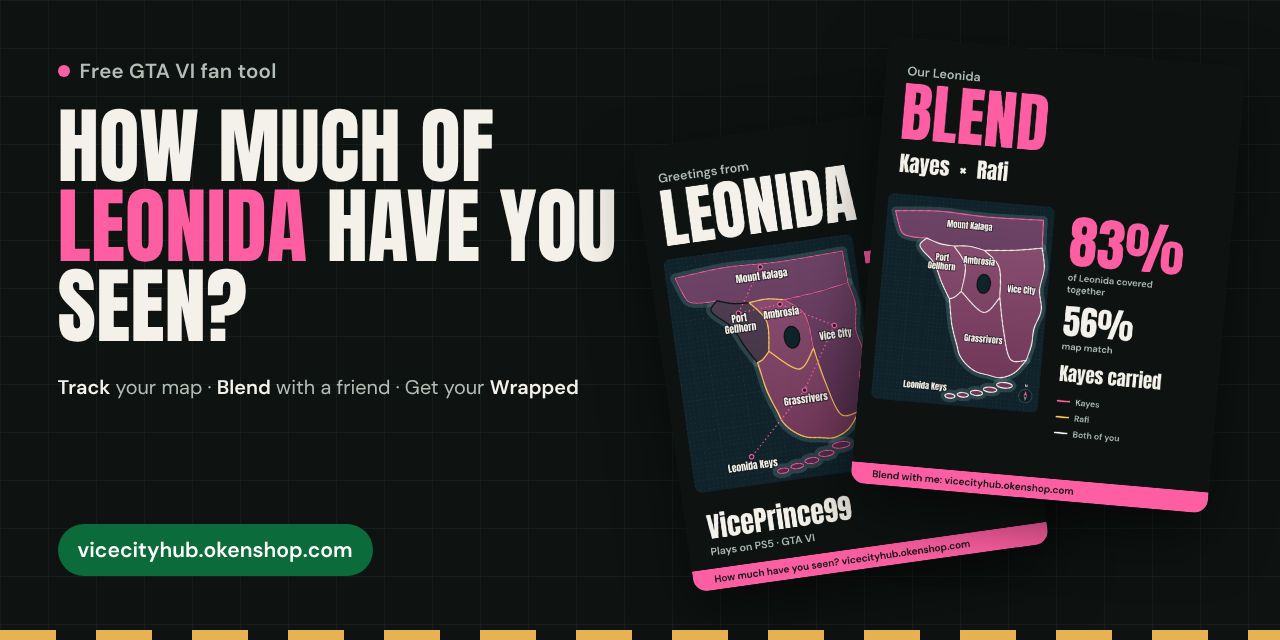
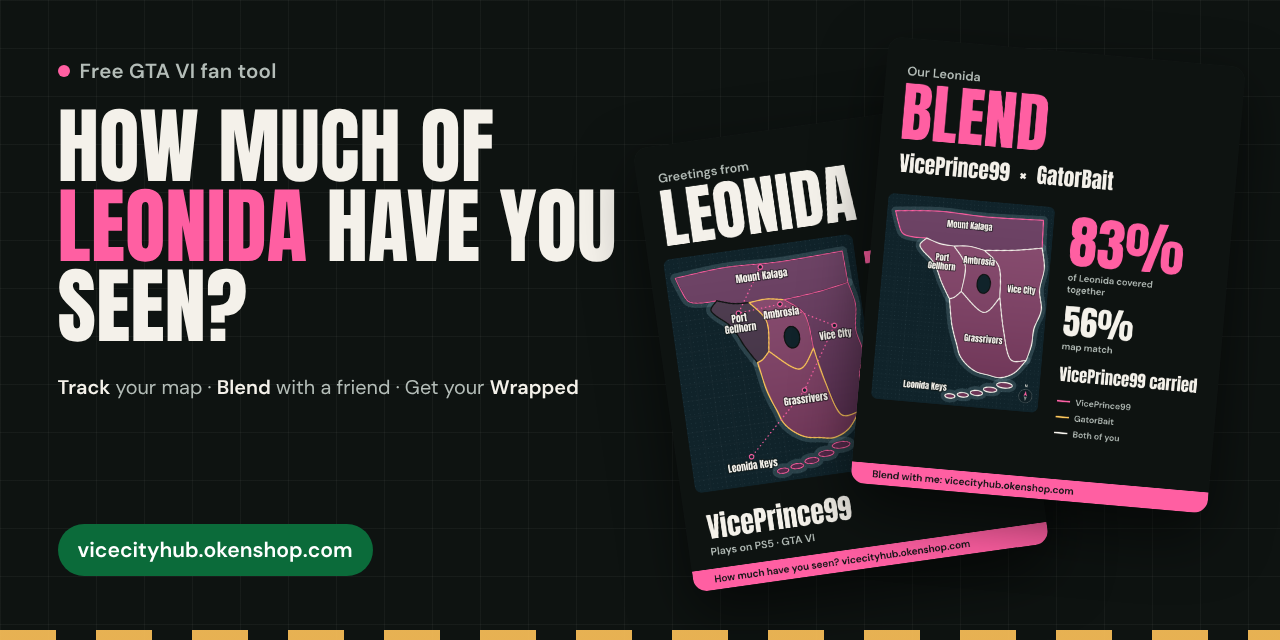
Fictional names in every image, cleaner footer and unlock section
- The Blend card, README banner and sharing image now show only
  made-up player names
- Footer: brand, source, bug report, terms and Clear my map in one row,
  languages beside them, the trademark notice in small print below
- Unlock section: once every window is out, the per-window countdown
  list hides and the status reads as a plain live line instead of an
  alert box

Claude-Session: https://claude.ai/code/session_01V1vhkWMqwTY81FT6V3Bd8t

Changed region(s): [[0.8125, 0.5625, 0.9375, 0.6875], [0.6875, 0.25, 0.875, 0.3125]]

diff --git a/site/index.html b/site/index.html
@@ -285,7 +285,7 @@
       <li><span class="place">Australia</span><span class="when-wrap"><span class="when" data-at="2026-11-18T13:00:00Z">Midnight AEDT</span><span class="note">Sydney, Melbourne</span></span></li>
       <li><span class="place">Japan and South Korea</span><span class="when-wrap"><span class="when" data-at="2026-11-18T15:00:00Z">Midnight JST</span><span class="note">Tokyo, Seoul</span></span></li>
     </ul>
-    <h3 class="markets__title">All listed windows</h3>
+    <h3 class="markets__title" id="clock-title">All listed windows</h3>
     <p class="clock__out" id="clock-out"></p>
     <ul class="clock" id="clock">
       <li><span class="place">New Zealand</span><span class="when when--static">Midnight NZDT · 11:00 UTC, Nov 18</span></li>
@@ -332,11 +332,17 @@
 </main>
 
 <footer class="foot">
-  <p>Vice City Hub is an independent fan tool. Not affiliated with or endorsed by Rockstar Games or Take-Two Interactive. Grand Theft Auto and GTA are trademarks of Take-Two Interactive Software. No Rockstar artwork is used.</p>
-  <p>Open source: <a href="/source" rel="noopener">fix a bug or suggest a tool on GitHub</a>.</p>
-  <p><a href="/legal">Terms and privacy</a></p>
-  <nav class="langs" aria-label="Language"><a href="?lang=en" data-lang="en" hreflang="en" lang="en">English</a><a href="?lang=es" data-lang="es" hreflang="es" lang="es">Español</a><a href="?lang=pt" data-lang="pt" hreflang="pt" lang="pt">Português</a></nav>
-  <p><button class="linklike" type="button" id="reset">Clear my map</button></p>
+  <div class="foot__top">
+    <a class="foot__brand" href="#tracker"><svg viewBox="0 0 32 32" aria-hidden="true"><rect width="32" height="32" rx="7" fill="#0B6B3A"/><path d="M7 19.6a9 9 0 0 1 18 0z" fill="#FF5FA2"/><path d="M6.5 19.6h19v1.2h-19z" fill="#F4F1EA"/></svg><span>Vice City Hub</span></a>
+    <nav class="foot__links" aria-label="More">
+      <a href="/source" rel="noopener">Source on GitHub</a>
+      <a href="/report" rel="noopener">Report a bug</a>
+      <a href="/legal">Terms and privacy</a>
+      <button class="linklike" type="button" id="reset">Clear my map</button>
+    </nav>
+    <nav class="langs" aria-label="Language"><a href="?lang=en" data-lang="en" hreflang="en" lang="en">English</a><a href="?lang=es" data-lang="es" hreflang="es" lang="es">Español</a><a href="?lang=pt" data-lang="pt" hreflang="pt" lang="pt">Português</a></nav>
+  </div>
+  <p class="foot__fine">Vice City Hub is an independent fan tool. Not affiliated with or endorsed by Rockstar Games or Take-Two Interactive. Grand Theft Auto and GTA are trademarks of Take-Two Interactive Software. No Rockstar artwork is used.</p>
 </footer>
 <div class="toast" id="toast" role="status" aria-live="polite" hidden></div>
 <noscript><p class="noscript">The map and card need JavaScript. Unlock times and region notes above work without it.</p></noscript>

diff --git a/site/hub/hub.css b/site/hub/hub.css
@@ -275,7 +275,8 @@ section.hero { border-top: 0; padding-top: clamp(24px, 4vw, 56px); }
 .addr code { letter-spacing: .02em; }
 .addr b { color: #FFE2A8; font-weight: 600; }
 
-.clock__out { margin-top: 24px; padding: 14px 16px; border-radius: var(--r); background: rgba(255, 95, 162, .08); border: 1px solid rgba(255, 95, 162, .4); max-width: 820px; }
+.clock__out { display: flex; align-items: baseline; gap: 10px; margin-top: 20px; max-width: 820px; color: var(--chalk); }
+.clock__out::before { content: ""; flex: none; width: 8px; height: 8px; border-radius: 50%; background: var(--neon); transform: translateY(-2px); }
 
 /* Toast */
 .toast { position: fixed; left: 50%; bottom: calc(20px + env(safe-area-inset-bottom)); z-index: 40; max-width: min(92vw, 460px); padding: 14px 18px; border-radius: 12px;
@@ -317,3 +318,12 @@ section.hero { border-top: 0; padding-top: clamp(24px, 4vw, 56px); }
 .legal strong { color: var(--chalk); font-weight: 600; }
 .legal ul { padding-left: 20px; }
 .legal a { color: var(--chalk); text-underline-offset: 3px; }
+
+.foot__top { display: flex; flex-wrap: wrap; align-items: center; justify-content: space-between; gap: 8px 32px; }
+.foot__brand { display: inline-flex; align-items: center; gap: 10px; min-height: 44px; color: var(--chalk); text-decoration: none; font: 400 22px/1 var(--display); }
+.foot__brand svg { width: 28px; height: 28px; }
+.foot__links { display: flex; flex-wrap: wrap; gap: 0 24px; }
+.foot__links a, .foot__links .linklike { display: inline-flex; align-items: center; min-height: 44px; color: var(--chalk-2); font-size: 15px; text-decoration: none; }
+@media (hover: hover) { .foot__links a:hover { color: var(--chalk); } }
+.foot .langs { margin-top: 0; }
+.foot__fine { max-width: 80ch; font-size: 13px; line-height: 1.6; color: var(--chalk-2); opacity: .8; padding-top: 16px; border-top: 1px solid var(--line); }

diff --git a/site/hub/i18n.js b/site/hub/i18n.js
@@ -336,7 +336,10 @@ window.VCH_I18N = {
   "Both of you": "Los dos",
   "Blend with me:": "Haz un Blend conmigo:",
   "Our Leonida Blend with {name}: {c}% covered together, {m}% match. Blend with me:": "Nuestro Blend de Leonida con {name}: {c}% cubierto entre los dos, {m}% de coincidencia. Haz un Blend conmigo:",
-  "Terms and privacy": "Términos y privacidad"
+  "Terms and privacy": "Términos y privacidad",
+  "Source on GitHub": "Código en GitHub",
+  "Report a bug": "Informar de un fallo",
+  "More": "Más"
  },
  "pt": {
   "@title": "Rastreador do mapa do GTA 6, desafio diário e bingo | Vice City Hub",
@@ -673,6 +676,9 @@ window.VCH_I18N = {
   "Both of you": "Vocês dois",
   "Blend with me:": "Faça um Blend comigo:",
   "Our Leonida Blend with {name}: {c}% covered together, {m}% match. Blend with me:": "Nosso Blend de Leonida com {name}: {c}% coberto juntos, {m}% de afinidade. Faça um Blend comigo:",
-  "Terms and privacy": "Termos e privacidade"
+  "Terms and privacy": "Termos e privacidade",
+  "Source on GitHub": "Código no GitHub",
+  "Report a bug": "Relatar um bug",
+  "More": "Mais"
  }
 };

diff --git a/site/hub/hub.js b/site/hub/hub.js
@@ -1056,6 +1056,8 @@
       li.appendChild(a); li.appendChild(b); frag.appendChild(li);
     });
     ul.textContent = ''; ul.appendChild(frag);
+    // After the last window everything is out: the per-window list has nothing left to count down.
+    ul.hidden = now >= LAST; $('clock-title').hidden = now >= LAST;
     Array.prototype.forEach.call(document.querySelectorAll('.markets .when[data-at]'), function (el) {
       var t = Date.parse(el.getAttribute('data-at'));
       el.textContent = now >= t ? tr('Out since {t}', { t: fmtTime(t) }) : tr('In {d}', { d: fmtLeft(t - now) }) + ' · ' + fmtTime(t);
